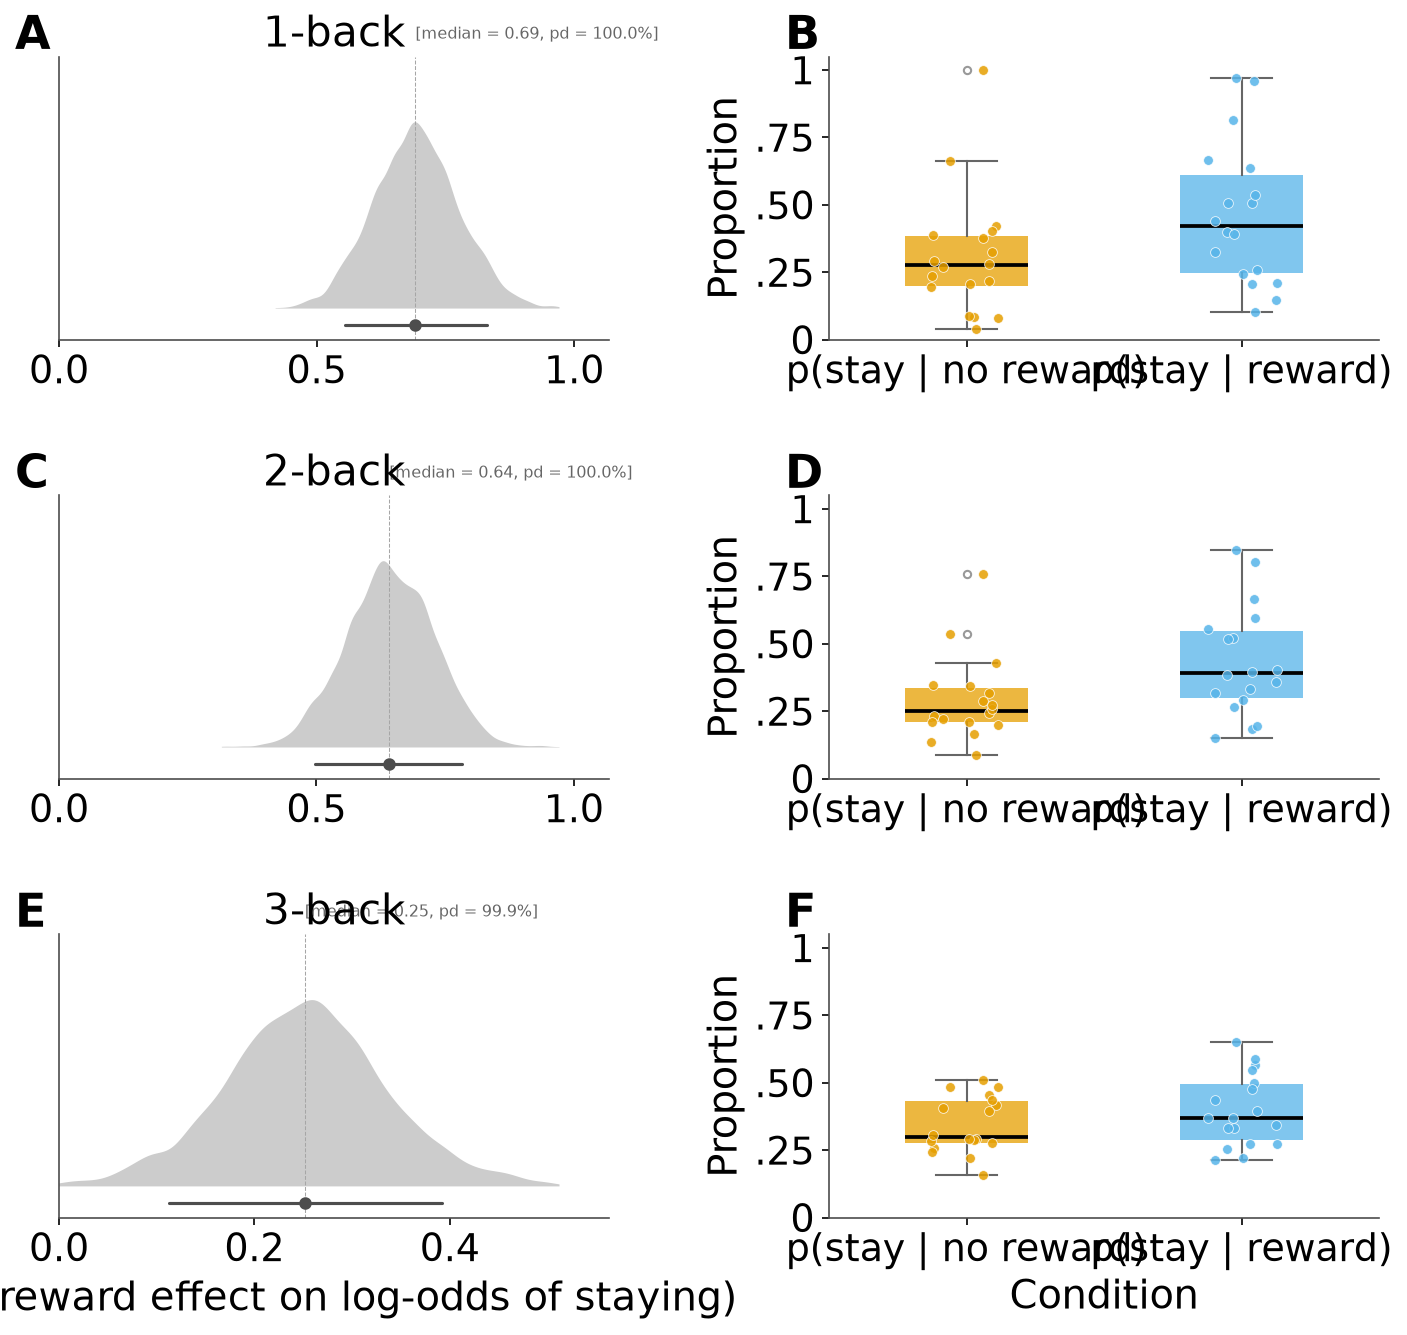
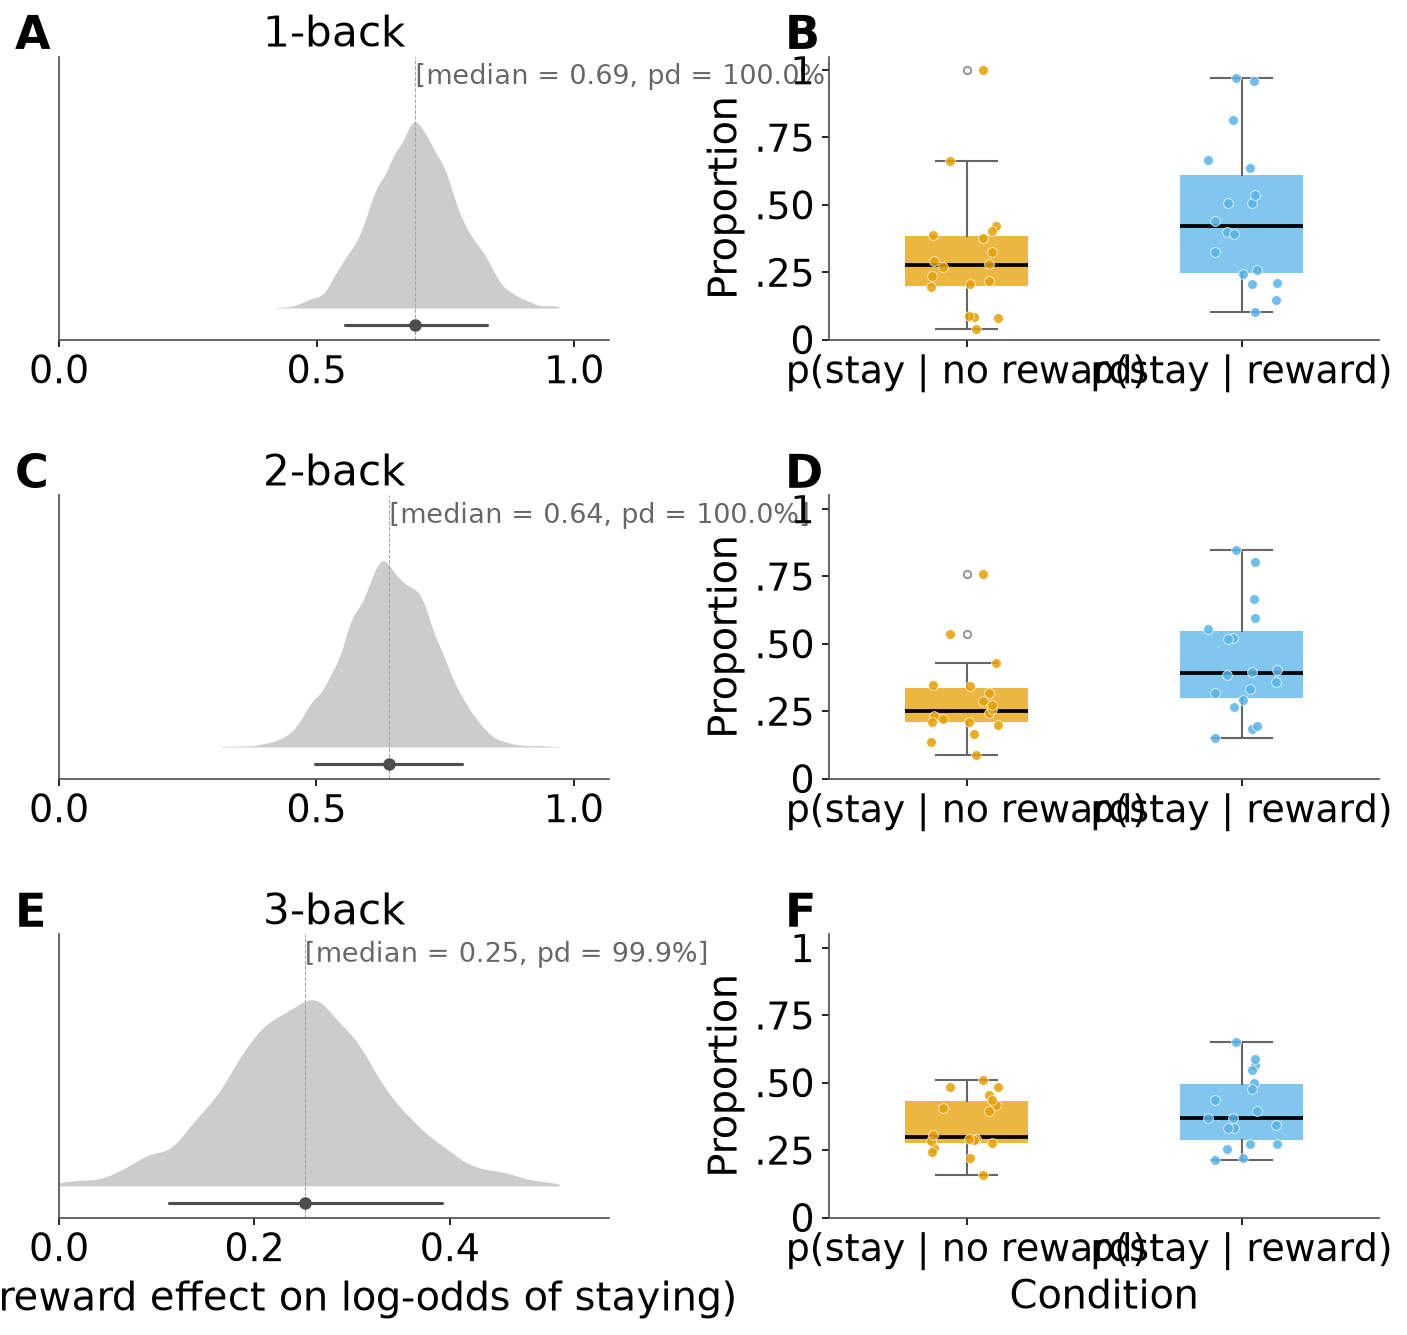
Move beta annotation lower to avoid title overlap
Claude-Session: https://claude.ai/code/session_012x9xnxMCjZRKf3pY757v2o

diff --git a/analysis/wsls_pilot/run_wsls_pilot.py b/analysis/wsls_pilot/run_wsls_pilot.py
@@ -126,8 +126,8 @@ def beta_panel(ax, beta_draws, lag_label, add_xlabel=False):
     ax.plot(med, CI_Y, "o", color=GREY30, ms=5, zorder=5)
 
     ax.axvline(med, color=GREY65, ls="--", lw=0.5)
-    ax.text(med, 1.05, f"[median = {med:.2f}, pd = {pd_:.1f}%]",
-            ha="left", va="bottom", fontsize=7.5, color=GREY40,
+    ax.text(med, 0.88, f"[median = {med:.2f}, pd = {pd_:.1f}%]",
+            ha="left", va="bottom", fontsize=BASE_FS - 7, color=GREY40,
             transform=ax.get_xaxis_transform())
 
     x_max = beta_draws.max() * 1.10
